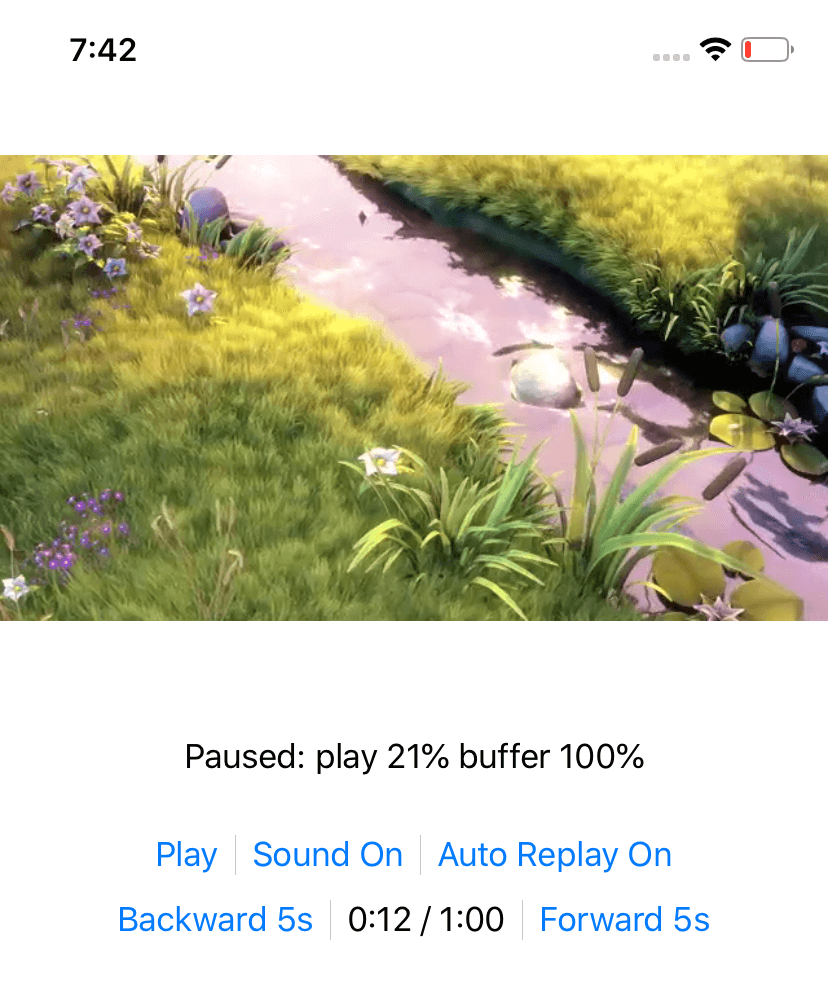
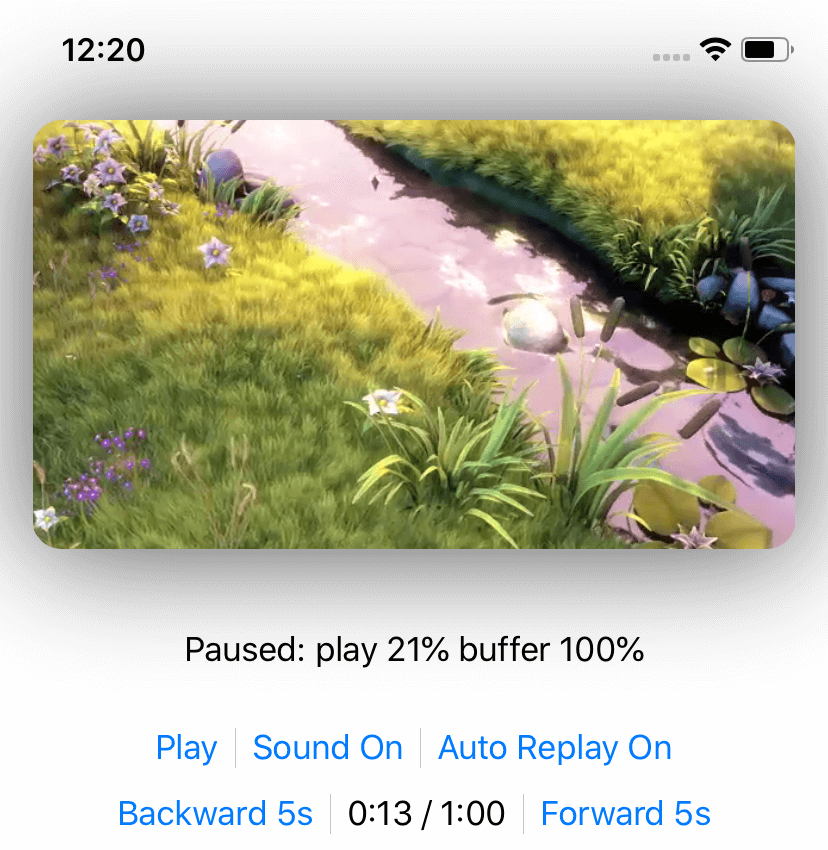
feat: beautify demo

diff --git a/Demo/ContentView.swift b/Demo/ContentView.swift
@@ -39,7 +39,10 @@ struct ContentView : View {
                         self.stateText = "Error: \(error)"
                     }
                 }
-                .frame(height: 300)
+                .aspectRatio(1.78, contentMode: .fit)
+                .cornerRadius(15)
+                .shadow(color: Color.black.opacity(0.7), radius: 30, x: 0, y: 2)
+                .padding()
             
             Text(stateText)
                 .padding()
